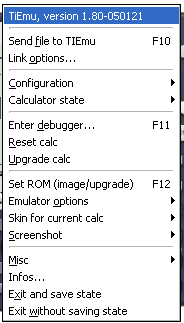
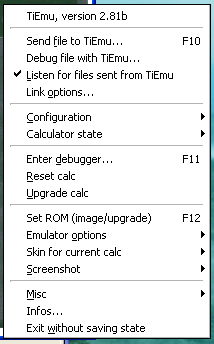
Updated html manual.
git-svn-id: http://svn.tilp.info/repos/tiemu@2283 4f589446-7ac1-0310-82c7-a055b08196ef

Changed region(s): [[0.0, 0.0, 1.0, 1.0], [0.8424, 0.4334, 0.9239, 0.4954]]

diff --git a/tiemu/trunk/help/chapter07.html b/tiemu/trunk/help/chapter07.html
@@ -42,12 +42,13 @@ Debugging mode is entered when a breakpoint is encountered or when the
 user launches the debugger by the popup menu or by pressing the F11
 key. This will stop the emulation engine but the LCD is still refreshed.<br>
 <br>
-Note: Debugger windows are preloaded at startup in order to display
+Note: debugger windows are preloaded at startup in order to display
 them quicker. The source code window may take a while to be displayed
 the first time: this is due to ROM call parsing.<br>
 <br>
 TiEmu shows two debuggers simultaneously: a built-in assembly-level
-debugger, and the GDB/Insight-derived source-level debugger. These two
+debugger, and the GDB/Insight-derived source-level debugger (+gdb
+release). These two
 debuggers have been adapted to interoperate seamlessly.<br>
 <br>
 The assembly-level debugger is made-up of several frames:<br>
@@ -130,7 +131,8 @@ except for branches. <br>
 until the address under the cursor is reached.<br>
 <br>
 Miscellaneous shortcuts:<br>
-- F6: (internal use) copy source code window content to C:\disasm.txt<br>
+- F6: copy source code window content to C:\disasm.txt (unofficial
+feature, for various purposes)<br>
 - F1: set selection and PC to next line<br>
 <h2>7.2 Registers</h2>
 <table style="width: 100%; text-align: left;" border="0" cellpadding="2"
@@ -221,7 +223,6 @@ The occurrence is highlighted in green in the memory frame.<br>
 </table>
 <br>
 <h2>7.4 Breakpoints</h2>
-<br>
 <table style="width: 100%; text-align: left;" border="0" cellpadding="2"
  cellspacing="2">
   <tbody>
@@ -249,7 +250,6 @@ can go to the breakpoint location, too (last toolbar button).<br>
 This frame shows the 10 latest PC values. Double-clicking the row will
 update the source frame with the address in the row.<br>
 <h2>7.6 Stack frame</h2>
-<br>
 <table style="width: 100%; text-align: left;" border="0" cellpadding="2"
  cellspacing="2">
   <tbody>
@@ -271,7 +271,6 @@ the arrow or Page Up/Down keys.<br>
 </table>
 <br>
 <h2>7.7 Heap</h2>
-<br>
 <table style="width: 100%; text-align: left;" border="0" cellpadding="2"
  cellspacing="2">
   <tbody>
@@ -292,7 +291,36 @@ pointed by the handle.<br>
   </tbody>
 </table>
 <br>
-<h2>7.8 <a href="../../insight1.0/help/index.html">Source-Level
+<h2>7.8 Logging</h2>
+At the time being, only link logging is implemented.<br>
+<h3>7.8.1 Link</h3>
+<table style="width: 100%; text-align: left;" border="0" cellpadding="2"
+ cellspacing="2">
+  <tbody>
+    <tr>
+      <td style="vertical-align: top;"><img src="log_link.png" alt=""
+ style="width: 478px; height: 213px;" hspace="0"></td>
+      <td style="vertical-align: top;">You can:<br>
+-&nbsp; log data sent and/or received from/to link port,<br>
+- increase/decrease size of buffer.<br>
+      <br>
+To start logging, press <span style="font-style: italic;">Start</span>
+button and close (<span style="font-style: italic;">Close</span> button
+or cross).<br>
+To stop logging, press <span style="font-style: italic;">Stop</span>
+button and close (<span style="font-style: italic;">Close</span> button
+or cross).<br>
+      <br>
+The list contents is updated whenever you launch this box.<br>
+      <br>
+Contents can be saved at any time in text format by pressing the <span
+ style="font-style: italic;">Save</span> button.<br>
+      </td>
+    </tr>
+  </tbody>
+</table>
+<br>
+<h2>7.9 <a href="../../insight1.0/help/index.html">Source-Level
 Debugger</a></h2>
 <hr>
 </body>

diff --git a/tiemu/trunk/help/chapter06.html b/tiemu/trunk/help/chapter06.html
@@ -45,18 +45,15 @@ On iPAQ, you have to touch-point on the LCD region.<br>
 The menu
 is organized as follow :<br>
 <div style="text-align: center;"><img alt="" src="popup_menu.png"
- style="width: 184px; height: 323px;"><br>
+ style="width: 214px; height: 344px;"><br>
 </div>
 <br>
 <h2>6.1 Link </h2>
-This is a large topic which is covered elsewhere. See the corresponding
-section...<br>
-<br>
 The <span style="font-style: italic;">Send file to TiEmu</span> item
 will let you choose a file to load into the emulator. You can choose
 one or several files at a time.<br>
 <br>
-The <span style="font-style: italic;">Debug file with TiEmu</span>
+[+gdb] The <span style="font-style: italic;">Debug file with TiEmu</span>
 item
 will let you choose a file to debug using the emulator: First, the file
 (which should be an uncompressed TIGCC program compiled with debugging
@@ -72,14 +69,24 @@ in the Insight Source Window to get to the beginning of your main
 function. You can choose only one file at a time; any data files
 required by the program need to be sent separately using
 <span style="font-style: italic;">Send file to TiEmu</span>.<br>
-<br>
-The <span style="font-style: italic;">Link options</span> item opens a
-dialog box. This is discussed elsewhere.<br>
+OR<br>
+[-gdb] The <span style="font-style: italic;">Quick send...</span> item
+is a convenient feature when testing program being under development.
+It allows to specify a file to send whenever you press F10 or click the
+<span style="font-style: italic;">Send file to TiEmu</span> item.<br>
+When enabled, the dialog box displayed by <span
+ style="font-style: italic;">Send file</span> is completely by-passed.<br>
 <br>
 The <span style="font-style: italic;">Receive file</span> item lets
 you
 enable (checked) or disable (unchecked) the receiving of variables
-from TiEmu. Use it if your program accesses the linkport for sound.<br>
+from TiEmu. You should uncheck it if your program accesses the linkport
+for sound.<br>
+<br>
+The <span style="font-style: italic;">Link options</span> item opens a
+dialog box. This is a large topic which is covered elsewhere. See the
+corresponding
+section...<br>
 <h2>6.2 Configuration and State</h2>
 You can save or load a particular configuration. A configuration
 contains the current parameters of the emulator (emulator image to use,

diff --git a/tiemu/trunk/help/chapter11.html b/tiemu/trunk/help/chapter11.html
@@ -44,11 +44,11 @@ options</span>
 item:<br>
 <br>
 <div style="text-align: center;"><img alt="" src="linkport.png"
- style="width: 273px; height: 236px;"><br>
+ style="width: 273px; height: 161px;"><br>
 </div>
 <br>
 <h2>11.1 Direct File loading</h2>
-When cable is set to <span style="font-style: italic;">linkport,</span>
+When cable is set to <span style="font-style: italic;">internal,</span>
 TiEmu uses its direct file loading/saving capability. That is to say,
 you can 'send' a file from disk to TiEmu and vice-versa (<span
  style="font-style: italic;">Send file to TiEmu</span> item of popup
@@ -57,7 +57,8 @@ The <span style="font-style: italic;">port</span> and <span
  style="font-style: italic;">calc</span> settings are not used.<br>
 <br>
 The timeout value can be increased/decreased to adjust timeout of
-direct file loading.<br>
+direct file loading which is <span style="text-decoration: underline;">not</span>
+the timeout of real cables.<br>
 <h2>11.2 Virtual cables</h2>
 <span style="font-style: italic;">Note : at the time being,
 ticables2 virtual link

diff --git a/tiemu/trunk/help/chapter01.html b/tiemu/trunk/help/chapter01.html
@@ -61,6 +61,10 @@ It also uses the <a href="http://www.tilp.info">TiLP</a> framework
 <br>
 TiEmu is provided with a default and free OS : <a
  href="http://www.ticalc.org/archives/files/fileinfo/319/31951.html">PedroM</a>.<br>
+<br>
+As of TiEmu 3, it is provided as 2 versions: TiEmu with gdb (+gdb for
+short) and TiEmu without gdb (-gdb for short). Both of them are the
+same except for the debugger.<br>
 <h2>1.2 Features and limitations<br>
 </h2>
 <span style="text-decoration: underline;">Features:</span><br>
@@ -113,8 +117,6 @@ graphical debugger <br>
   <li>linkport emulation has not been tested with USB cable yet</li>
   <li>no debugger while sending/receiving a file to/from the virtual
 calculator</li>
-  <li>no linkport logging capabilities<br>
-  </li>
 </ul>
 <h2>1.3 System requirements</h2>
 <font size="3">In order to run TiEmu, your computer must meet one

diff --git a/tiemu/trunk/help/Manual_en.html b/tiemu/trunk/help/Manual_en.html
@@ -102,6 +102,17 @@ release (TiEmu v1.80l).</font></td>
       <td style="vertical-align: top;">SilverLink support.<br>
       </td>
     </tr>
+    <tr>
+      <td style="vertical-align: top;">R. Li&eacute;vin<br>
+      </td>
+      <td style="vertical-align: top;">Dec 4th, 2006<br>
+      </td>
+      <td style="vertical-align: top;">1.3<br>
+      </td>
+      <td style="vertical-align: top;">Link, link-log, quick-send
+and more.<br>
+      </td>
+    </tr>
   </tbody>
 </table>
 <p><font size="3">This current release supersedes and cancels any
@@ -139,9 +150,6 @@ Released under FDL.<br>
   <li>Kevin for GDB/Insight integration<br>
   </li>
   <li>Lionel and Olivier for their advices<br>
-  </li>
-  <li>Julien Blache &lt;<a href="mailto:jb@jblache.org">jb@jblache.org</a>&gt;
-for the Debian packaging<br>
   </li>
 </ul>
 <p> </p>
